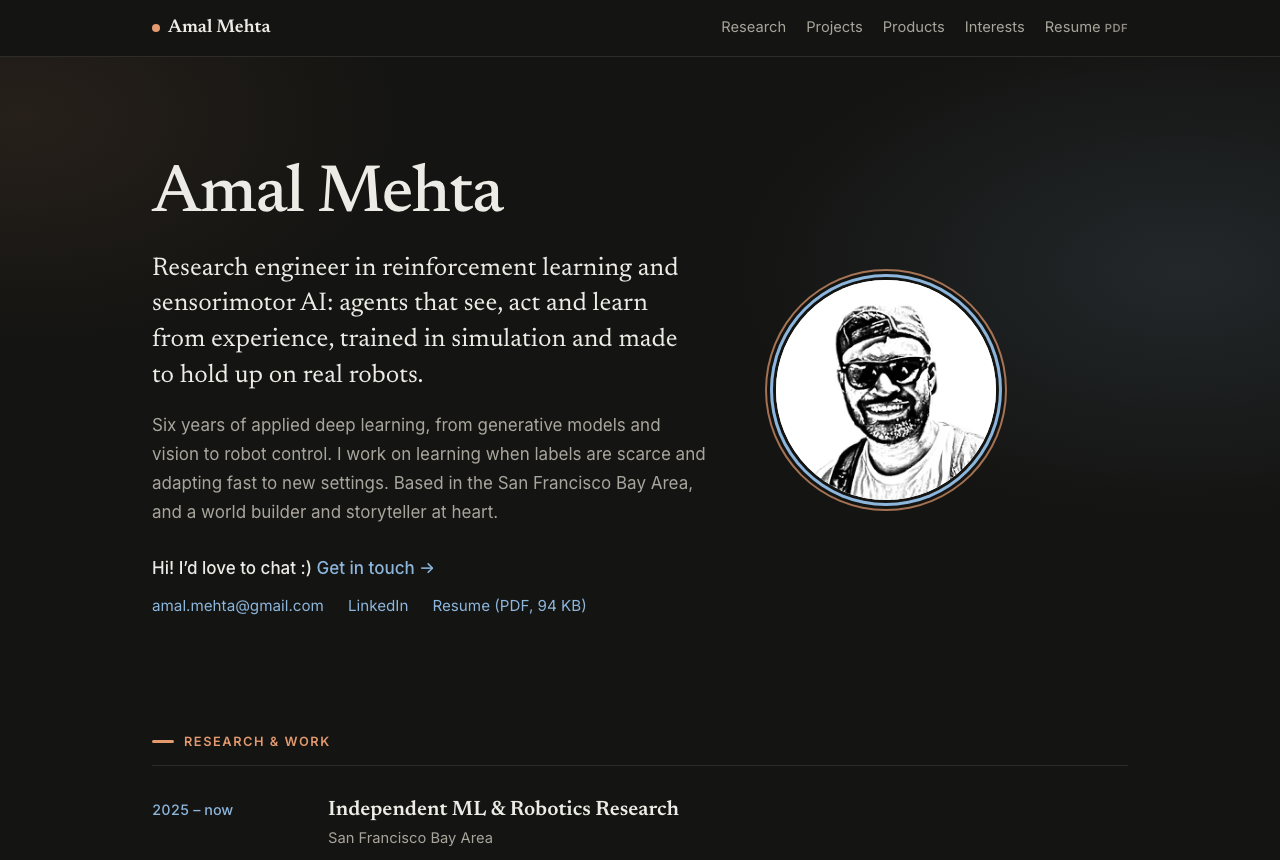
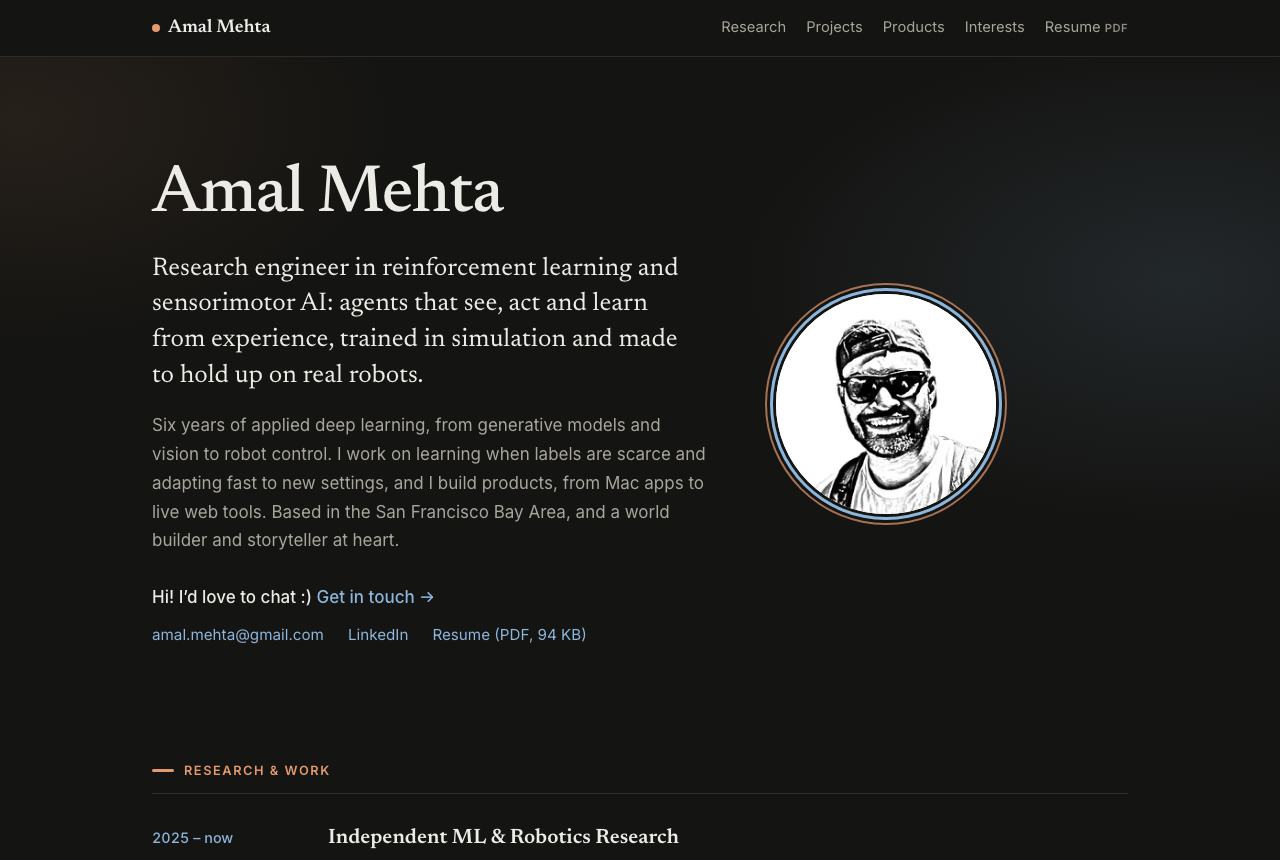
Mention the products up front, on the resume, and give each page its own preview
- The intro and resume summary say you build products, from Mac apps
  to live web tools.
- The resume's Pose estimation bullet becomes Products: Sports Pred,
  RamClean and the webcam pose coach. Still one page.
- Live interests, Travel and Things I'm thinking about each get a link
  preview of their own page; the profile's is recaptured. The preview
  test covers every public page and checks they differ.
- README screenshots recaptured.

diff --git a/index.html b/index.html
@@ -41,7 +41,7 @@
       <div class="hero-text">
       <h1>Amal Mehta</h1>
       <p class="lede">Research engineer in reinforcement learning and sensorimotor AI: agents that see, act and learn from experience, trained in simulation and made to hold up on real robots.</p>
-      <p class="hero-sub">Six years of applied deep learning, from generative models and vision to robot control. I work on learning when labels are scarce and adapting fast to new settings. Based in the San Francisco Bay Area, and a world builder and storyteller at heart.</p>
+      <p class="hero-sub">Six years of applied deep learning, from generative models and vision to robot control. I work on learning when labels are scarce and adapting fast to new settings, and I build products, from Mac apps to live web tools. Based in the San Francisco Bay Area, and a world builder and storyteller at heart.</p>
       <p class="hello">Hi! I’d love to chat :) <a href="https://reachouts.me/?u=amal">Get in touch →</a></p>
       <ul class="contact">
         <li><a href="mailto:amal.mehta@gmail.com">amal.mehta@gmail.com</a></li>

diff --git a/interests.html b/interests.html
@@ -11,7 +11,7 @@
   <meta property="og:url" content="https://amalmehta.github.io/PortfolioWebsite/interests.html">
   <meta property="og:title" content="Live interests · Amal Mehta">
   <meta property="og:description" content="What Amal Mehta is into right now: hobbies and curiosities, kept current.">
-  <meta property="og:image" content="https://amalmehta.github.io/PortfolioWebsite/images/og.png">
+  <meta property="og:image" content="https://amalmehta.github.io/PortfolioWebsite/images/og-interests.png">
   <meta property="og:image:width" content="1200">
   <meta property="og:image:height" content="630">
   <meta name="twitter:card" content="summary_large_image">

diff --git a/thinking.html b/thinking.html
@@ -11,7 +11,7 @@
   <meta property="og:url" content="https://amalmehta.github.io/PortfolioWebsite/thinking.html">
   <meta property="og:title" content="Things I'm thinking about · Amal Mehta">
   <meta property="og:description" content="Open questions and ideas Amal Mehta keeps coming back to.">
-  <meta property="og:image" content="https://amalmehta.github.io/PortfolioWebsite/images/og.png">
+  <meta property="og:image" content="https://amalmehta.github.io/PortfolioWebsite/images/og-thinking.png">
   <meta property="og:image:width" content="1200">
   <meta property="og:image:height" content="630">
   <meta name="twitter:card" content="summary_large_image">

diff --git a/photos.html b/photos.html
@@ -11,7 +11,7 @@
   <meta property="og:url" content="https://amalmehta.github.io/PortfolioWebsite/photos.html">
   <meta property="og:title" content="Travel · Amal Mehta">
   <meta property="og:description" content="Places Amal Mehta would like to go, and photos from the trips.">
-  <meta property="og:image" content="https://amalmehta.github.io/PortfolioWebsite/images/og.png">
+  <meta property="og:image" content="https://amalmehta.github.io/PortfolioWebsite/images/og-travel.png">
   <meta property="og:image:width" content="1200">
   <meta property="og:image:height" content="630">
   <meta name="twitter:card" content="summary_large_image">

diff --git a/resume/Amal Mehta Resume.tex b/resume/Amal Mehta Resume.tex
@@ -20,7 +20,7 @@
 SF Bay Area \quad$\cdot$\quad \href{mailto:amal.mehta@gmail.com}{amal.mehta@gmail.com} \quad$\cdot$\quad \href{https://amalmehta.github.io/PortfolioWebsite/}{amalmehta.github.io/PortfolioWebsite} \quad$\cdot$\quad \href{https://www.linkedin.com/in/amal-mehta-264413a9/}{linkedin.com/in/amal-mehta-264413a9}
 \end{center}
 
-Research engineer with six years of applied deep learning across the stack: generative models and vision (GANs, CNN segmentation, detection) and deep RL and meta-RL, from data pipelines and multi-GPU training to policies deployed on physical robots. Prior neuroimaging research at UCSF; long-standing interest in how the brain learns.
+Research engineer with six years of applied deep learning across the stack: generative models and vision (GANs, CNN segmentation, detection) and deep RL and meta-RL, from data pipelines and multi-GPU training to policies deployed on physical robots. Also builds products, from Mac apps to live web tools. Prior neuroimaging research at UCSF; long-standing interest in how the brain learns.
 
 \section*{Experience}
 
@@ -30,7 +30,7 @@ Research engineer with six years of applied deep learning across the stack: gene
 \item \textbf{Post-training:} SFT then GRPO on a small transformer policy in a key-and-door gridworld maze; over 3 seeds, GRPO lifted held-out success from 70\% to 80\% (DPO: 81\%), where RL from scratch failed.
 \item \textbf{Self-play RL:} 9$\times$9 Go engine trained from scratch with the AlphaGo Zero recipe; 7,040 self-play games in $\sim$11 h on a laptop.
 \item \textbf{Research tools:} Mac apps for 3D brain MRI (tissue segmentation, EEG placement) and for turning arXiv papers into runnable demos.
-\item \textbf{Pose estimation:} real-time sport technique analysis on MediaPipe 3D pose from a webcam; scores reps against one reference rep.
+\item \textbf{Products:} Sports Pred (live soccer and tennis title odds), RamClean (on-device ML Mac app), a webcam 3D pose coach.
 \item Member, Sensorimotor AI journal club, Redwood Center (UC Berkeley); mentored undergraduate scholars from Berkeley.
 \end{itemize}
 

diff --git a/tests/test_site.py b/tests/test_site.py
@@ -230,13 +230,20 @@ class LinksTest(unittest.TestCase):
         self.assertTrue(resume, "no link to the resume PDF")
 
     def test_link_preview_image_matches_repo(self):
-        og = PAGE.metas.get("og:image", "")
-        self.assertTrue(og.startswith(SITE_URL), og)
-        path = ROOT / og[len(SITE_URL):]
-        self.assertTrue(path.is_file(), path)
-        self.assertEqual(image_size(path), (1200, 630))
-        self.assertEqual(PAGE.metas.get("og:image:width"), "1200")
-        self.assertEqual(PAGE.metas.get("og:image:height"), "630")
+        # Every page's link-preview image exists at 1200x630; each public page has its own.
+        seen = {}
+        for name in ("index.html", "interests.html", "photos.html", "thinking.html"):
+            with self.subTest(page=name):
+                page = parse(ROOT / name)
+                og = page.metas.get("og:image", "")
+                self.assertTrue(og.startswith(SITE_URL), og)
+                path = ROOT / og[len(SITE_URL):]
+                self.assertTrue(path.is_file(), path)
+                self.assertEqual(image_size(path), (1200, 630))
+                self.assertEqual(page.metas.get("og:image:width"), "1200")
+                self.assertEqual(page.metas.get("og:image:height"), "630")
+                seen[name] = og
+        self.assertEqual(len(set(seen.values())), len(seen), seen)
 
 
 class ImagesTest(unittest.TestCase):

diff --git a/docs/SYSTEM-DESIGN.md b/docs/SYSTEM-DESIGN.md
@@ -56,7 +56,7 @@ All in the repo. Nothing is stored or collected on the site: no analytics, cooki
 - **No code links for private projects.** Most projects are in private repos, so their cards have a write-up and screenshot only. Neural Signal ML links to its public repo, and AlphaGo Lite to its live in-browser demo.
 - **Plain-language project descriptions.** Each card says what the project does and why it's interesting before naming techniques; the techniques go in the small tags line.
 - **Resume built from source.** The resume PDF is built from LaTeX in `resume/`, so it can be edited and rebuilt in one step. It lists email, LinkedIn and this site, and no phone number.
-- **Link preview.** Open Graph tags and `images/og.png` (a 1200×630 render of the intro, captured with headless Chrome with the sticky header hidden; recapture it when the intro changes) give a title, summary and image when the link is pasted into email, Slack or an applicant tracker.
+- **Link preview.** Open Graph tags and a 1200×630 image per page: `images/og.png` for the profile (a render of the intro) and `og-interests.png`, `og-travel.png` and `og-thinking.png` for the other pages, each captured from the top of its page with headless Chrome in light mode with the sticky header hidden. Recapture one when its page's top changes give a title, summary and image when the link is pasted into email, Slack or an applicant tracker.
 - **Not an application.** This is a static personal site, so it has no Mac app, feedback tab or settings panel.
 - **A drawn portrait.** The intro portrait is a pencil sketch made from a photo with the Headshot Generator project's own image code. The source photo is not in the repo.
 - **Site and resume list the same projects.** The resume points to this site for details, so every project on it has a card here. Interests outside work sit in a one-line note at the bottom, not the work timeline.

diff --git a/docs/FILE-STRUCTURE.md b/docs/FILE-STRUCTURE.md
@@ -21,7 +21,8 @@ assets/media/                 Looping project clips (MP4) once recorded; empty f
   README.md                   Which files to supply, and what each should show
 images/                       Project screenshots (and their WebP copies the cards show) and research drawings (SVG)
   portrait.jpg                Pencil-sketch portrait in the intro (served as portrait-240/-480 AVIF and WebP)
-  og.png                      Link-preview image (1200×630)
+  og.png                      Link-preview image for the profile (1200×630)
+  og-interests.png, og-travel.png, og-thinking.png   Link previews for the other pages
   apple-touch-icon.png        Home-screen icon (180×180)
   <project>.jpg               Full-size screenshot per project (the source for its poster)
   <project>-960.webp          960 px copy shown on the card (the poster, once it has a clip)
